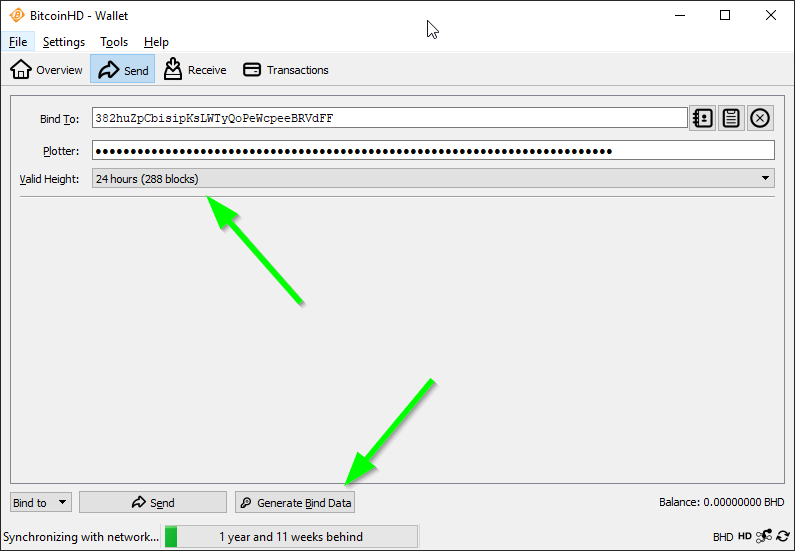
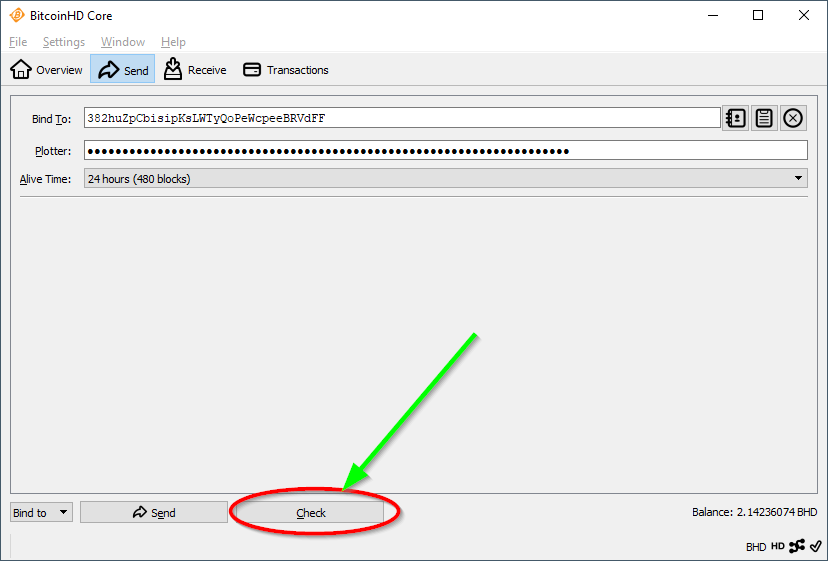
Update binding instructions

diff --git a/docs/foxy-pool/binding/lhd.md b/docs/foxy-pool/binding/lhd.md
@@ -1,3 +1,25 @@
 ### To bind to the LHD Foxy-Pool just follow these steps:
 
-1. Follow the steps for BHD Binding listed [here](bhd.md), but with a LHD wallet of course.
+1. Open your LHD wallet and let it sync till it is on the current
+   height.
+2. Change into the tab `Send` and select `Bind to`:
+
+    ![LHD Bind to](../../assets/img/binding/lhd-bind-1.png)
+
+3. Enter the pools address into the `Bind To` field.
+4. Enter your plotterId passphrase into the `Plotter` field.
+5. Change the `Valid Height` to 24 hours (288 blocks).
+
+    ![LHD Generate bind data](../../assets/img/binding/lhd-bind-2.png)
+
+6. Click on `Generate Bind Data` button.
+7. Your plotterId and bind data are displayed. Please verify the displayed plotterId matches yours. You can copy the bind
+      data with the `Copy bind data` button.
+
+    ![LHD Copy bind data](../../assets/img/binding/lhd-bind-3.png)
+
+8. Open the [Foxy-Pool LHD Web UI](https://lhd.foxypool.cf/bind) and
+   enter your plotterId and the copied bind data.
+9. Press the `Bind` button.
+
+    ![LHD Bind](../../assets/img/binding/lhd-bind-4.png)

diff --git a/docs/foxy-pool/binding/bhd.md b/docs/foxy-pool/binding/bhd.md
@@ -8,12 +8,12 @@
 
 3. Enter the pools address into the `Bind To` field.
 4. Enter your plotterId passphrase into the `Plotter` field.
-5. Change the `Valid Height` to 14 hours (288 blocks).
+5. Change the `Alive Time` to 24 hours (480 blocks).
 
     ![BHD Generate bind data](../../assets/img/binding/bhd-bind-2.png)
 
-6. Click on `Generate Bind Data` button.
-7. Your plotterId and bind data are displayed and you can copy the bind
+6. Click on `Check` button.
+7. Your plotterId and bind data are displayed. Please verify the displayed plotterId matches yours. You can copy the bind
    data with the `Copy bind data` button.
 
     ![BHD Copy bind data](../../assets/img/binding/bhd-bind-3.png)

diff --git a/docs/foxy-pool/binding/hdd.md b/docs/foxy-pool/binding/hdd.md
@@ -1,3 +1,3 @@
 ### To bind to the HDD Foxy-Pool just follow these steps:
 
-1. Follow the steps for BHD Binding listed [here](bhd.md), but with a HDD wallet of course.
+1. Follow the steps for LHD Binding listed [here](lhd.md), but with a HDD wallet of course.

diff --git a/docs/foxy-pool/binding/xhd.md b/docs/foxy-pool/binding/xhd.md
@@ -1,3 +1,3 @@
 ### To bind to the XHD Foxy-Pool just follow these steps:
 
-1. Follow the steps for BHD Binding listed [here](bhd.md), but with a XHD wallet of course.
+1. Follow the steps for LHD Binding listed [here](lhd.md), but with a XHD wallet of course.
